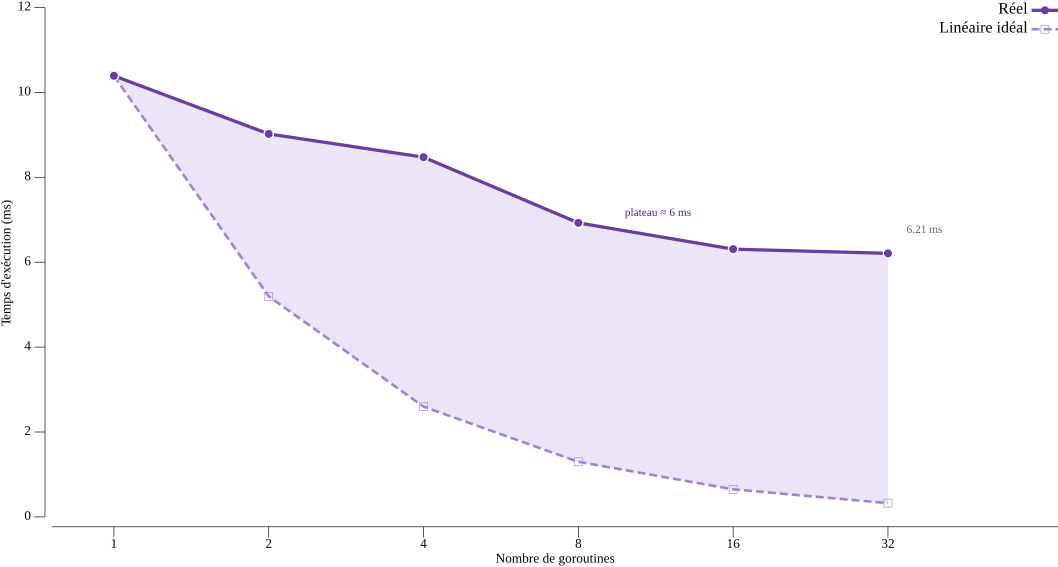
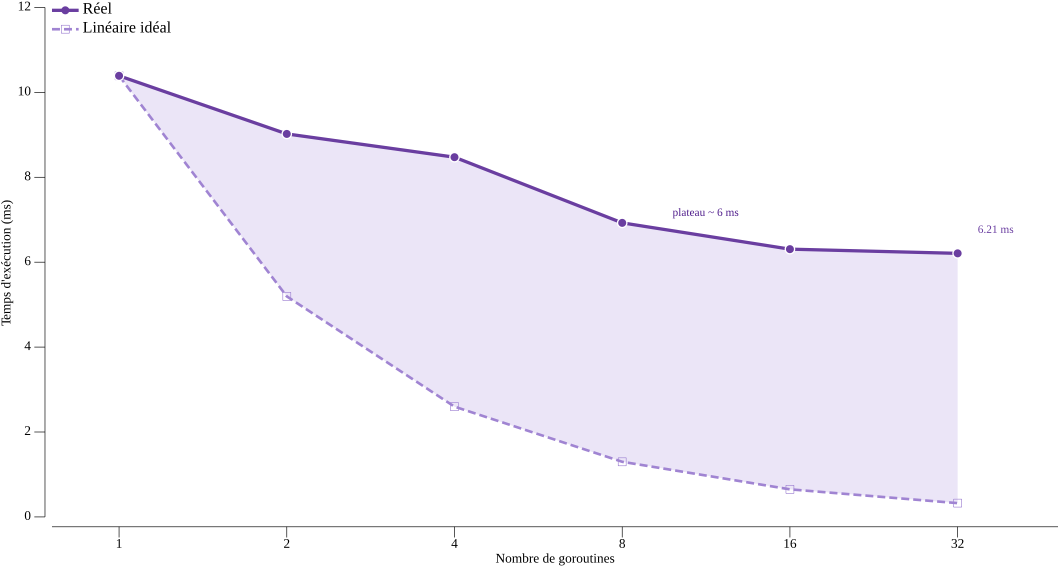
commit

diff --git a/TN5/chart/main.go b/TN5/chart/main.go
@@ -86,7 +86,7 @@ func makeWorkerCountChart() {
 	p.Y.Min = 0
 	p.Y.Max = 12
 	p.X.Min = -0.4
-	p.X.Max = float64(n-1) + 1.1 // espace pour le label final
+	p.X.Max = float64(n-1) + 0.6 // espace pour le label final
 
 	p.Y.Tick.Marker = plot.ConstantTicks([]plot.Tick{
 		{Value: 0, Label: "0"}, {Value: 2, Label: "2"},
@@ -163,7 +163,7 @@ func makeWorkerCountChart() {
 	p.Legend.Add("Réel", actualLine, actualScatterFill)
 	p.Legend.Add("Linéaire idéal", idealLine, idealScatter)
 	p.Legend.Top = true
-	p.Legend.Left = false
+	p.Legend.Left = true
 	p.Legend.Padding = vg.Points(4)
 
 	// Valeur finale (courbe réelle)
@@ -174,14 +174,14 @@ func makeWorkerCountChart() {
 	if err != nil {
 		log.Fatal(err)
 	}
-	endLabel.TextStyle[0].Color = colorEndLabel
+	endLabel.TextStyle[0].Color = colorActual
 	endLabel.TextStyle[0].Font.Size = vg.Points(8.5)
 	p.Add(endLabel)
 
 	// Annotation "plateau ≈ 6 ms" sur la zone de plateau
 	plateauLabel, err := plotter.NewLabels(plotter.XYLabels{
 		XYs:    plotter.XYs{{X: float64(n-1) - 1.7, Y: workerActualMS[n-1] + 0.85}},
-		Labels: []string{"plateau ≈ 6 ms"},
+		Labels: []string{"plateau ~ 6 ms"},
 	})
 	if err != nil {
 		log.Fatal(err)

diff --git a/TN5/TN5-report.md b/TN5/TN5-report.md
@@ -23,6 +23,10 @@ Mesures effectuées sur un Intel i5-10300H à 2,50 GHz (4 cœurs physiques /
 8 threads logiques, Windows/amd64), fichier de test d'environ 700 000 caractères
 (100 000 mots), 6 exécutions par configuration analysées avec `benchstat`.
 
+**Graphique 1 – Scaling réel vs linéaire idéal selon le nombre de goroutines**
+
+![Graphique 1 – Réel vs linéaire idéal](data/worker-count-chart.png)
+
 **Tableau 1 – Temps selon la taille des segments**
 
 | Segment | 500 | 1 000 | 5 000 | 10 000 | 50 000 | 100 000 | Tout |
@@ -41,8 +45,6 @@ devient pire que le séquentiel.
 |:---:|:---:|:---:|:---:|:---:|:---:|:---:|
 | Temps (ms) | 10.39 | 9.02 | 8.47 | 6.93 | 6.31 | 6.21 |
 | Speedup | 1.00× | 1.15× | 1.23× | 1.50× | 1.65× | 1.67× |
-
-![Graphique 1 – Réel vs linéaire idéal](data/worker-count-chart.png)
 
 ## 3. Analyse de la linéarité
 
